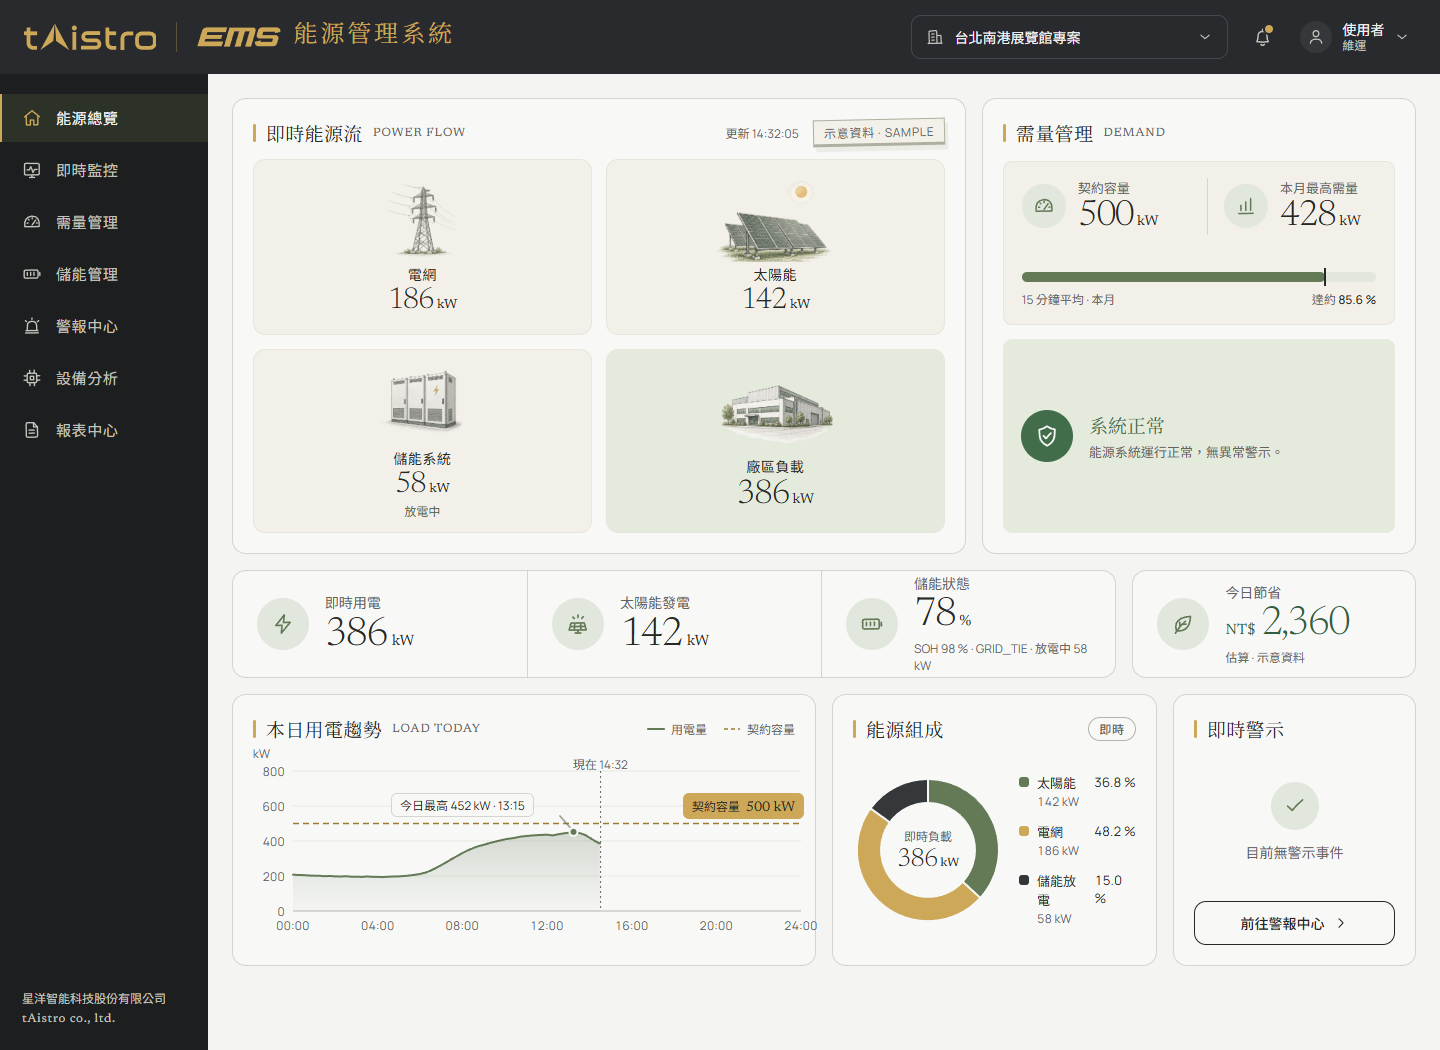
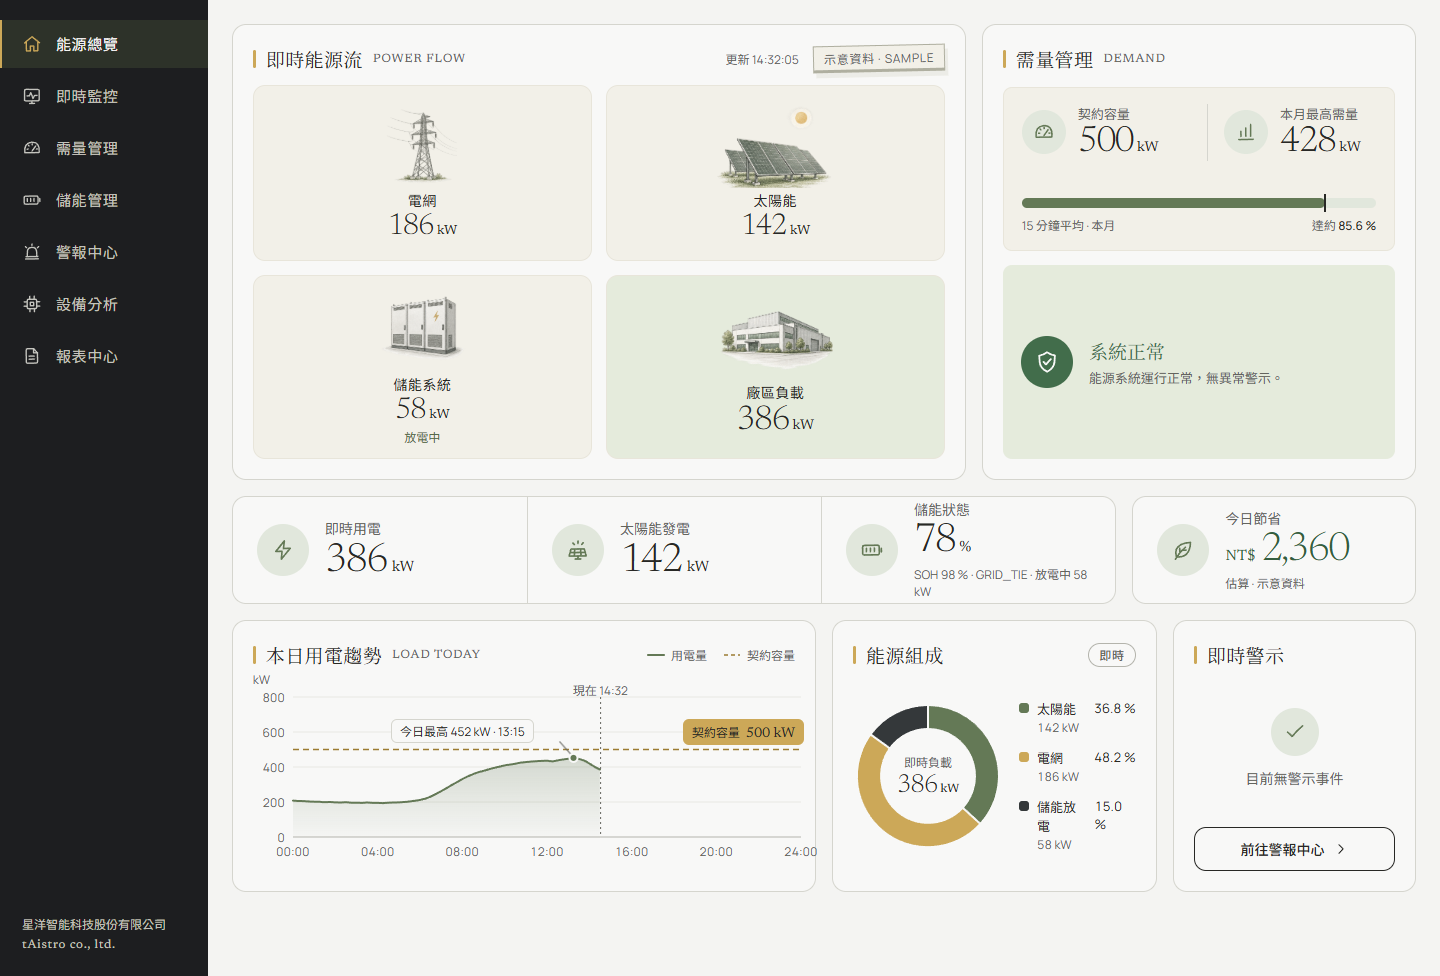
fix: de-identify EMS and PVsim product screenshots

diff --git a/docs/design/live-prototype/locale-pvsim.js b/docs/design/live-prototype/locale-pvsim.js
@@ -1,7 +1,7 @@
 export const zhHant = {
   screens: {
   "label": "從模型，到看得見的設計成果",
-  "note": "示範工作區實際截圖 · 本組畫面為屋頂案例",
+  "note": "實際介面截圖 · 已去識別化 · 屋頂示範案例",
   "group": "PVsim 產品畫面",
   "enlarge": "放大查看原圖",
   "items": [
@@ -68,7 +68,7 @@ export const zhHant = {
 export const en = {
   screens: {
   "label": "From a model to visible design results",
-  "note": "Actual demo workspace captures · Rooftop example in Chinese",
+  "note": "Actual demo captures · De-identified · Rooftop example in Chinese",
   "group": "PVsim product screens",
   "enlarge": "View full-size image",
   "items": [

diff --git a/docs/design/live-prototype/locale-ems.js b/docs/design/live-prototype/locale-ems.js
@@ -2,7 +2,7 @@
 export const zhHant = {
   screens: {
   "label": "來自示範環境的產品畫面",
-  "note": "實際介面截圖 · 畫面數值為示意資料",
+  "note": "實際介面截圖 · 已去識別化 · 示意資料",
   "group": "EMS 產品畫面",
   "enlarge": "放大查看原圖",
   "items": [
@@ -65,7 +65,7 @@ export const zhHant = {
 export const en = {
   screens: {
   "label": "Inside the demo environment",
-  "note": "Actual interface captures · Sample data",
+  "note": "Actual interface captures · De-identified · Sample data",
   "group": "EMS product screens",
   "enlarge": "View full-size image",
   "items": [

diff --git a/docs/design/live-prototype/product-screen-provenance.md b/docs/design/live-prototype/product-screen-provenance.md
@@ -3,17 +3,17 @@
 2026-09-30 擷取使用者指定、架於 DGX 的示範網站。截圖為實際產品介面；不是客戶上線實績或量測驗收。只切換既有畫面與查看既有成果，未修改案件、送算或操作設備。
 
 - EMS：公開示範頁 /ems/boards/Main.dc.html、Demand.dc.html、Storage.dc.html。頁面數值為示意資料，保留原有標示。
-- PVsim：https://synaiq-ai.com/solar/，由使用者提供示範登入。擷取既有屋頂示範案例的模型、遮陰、月發電量比較與串並配置圖，沒有把案例類型當成平台範圍。模型／圖表使用產品區域截圖，排除登入資訊、案件清單及座標欄位；沒有重繪或改造結果。
+- PVsim：https://synaiq-ai.com/solar/，由使用者提供示範登入。擷取既有屋頂示範案例的模型、遮陰、月發電量比較與串並配置圖，沒有把案例類型當成平台範圍。所有圖片皆採功能區域截圖，排除客戶／案場名稱、專案標頭、登入資訊、案件清單及地理座標欄位。遮陰與發電圖重新擷取無案名區域；串接畫面選用無案名的板位與串號索引。沒有重繪、替換或改造計算結果。
 - 圖片內為原始中文介面；英文頁的說明與圖說為英文。
 - 發電圖是模型估算；串並圖是設計候選，保留原介面工程限制。
-- 原始 PNG 與擷取紀錄留在忽略目錄 out/product-screen-capture/。發布圖片為無損 WebP；不儲存帳密或登入狀態。
+- 原始 PNG 與擷取紀錄留在忽略目錄 out/product-screen-anonymous/。發布圖片為無損 WebP；不儲存帳密或登入狀態。
 
 | 檔案 | 尺寸 | SHA-256 |
 |---|---|---|
-| assets/ems-main-demo.webp | 1440 × 1050 | ce0dbb3c5f4fc3ffd3ed03158721a2c0347b3c7ae30a9bd78d8c80e58eb2d379 |
-| assets/ems-demand-demo.webp | 1440 × 1050 | e84e1d2d762c7fc4fc0ae54c4a67bfa6024786e7a53ad621d1e2bbca7d35fb34 |
-| assets/ems-storage-demo.webp | 1440 × 1050 | 00cab1c50ef7a0950c9ce83ae0ac70ffc152a1766de6b654beb525207772a173 |
+| assets/ems-main-demo.webp | 1440 × 976 | b76085b9ac2fbd130d5b7316546eb978bc884886799177e39dd87ca598c97df8 |
+| assets/ems-demand-demo.webp | 1440 × 976 | 3bac35cafe8a335c3c8b54539989e5a14b94d0a6382d62e781a59b28cd71bce9 |
+| assets/ems-storage-demo.webp | 1440 × 976 | dae42108c83da39636b2e6d1a7bca32c9dc712fcc9fdace354f4ddbd66611ec3 |
 | assets/pvsim-model-demo.webp | 986 × 827 | e622e2b0837660a53cd68e12e805c08dfd830f3cd7ef62cdafb70ced11e94f29 |
-| assets/pvsim-shading-demo.webp | 938 × 675 | 5be9a15e647c1d029a9e6133817e8b1e95060a95852c67e03dcbf1eb41609069 |
-| assets/pvsim-generation-demo.webp | 938 × 411 | 88ab83bf33edae76a60ecb8f218a5fce6d8f3355ea0c64fbd4eb5b4e9338b594 |
-| assets/pvsim-wiring-demo.webp | 1600 × 1050 | b01b6a22de0371046e7931c9920f06d6b7cc1b83c10632f55803fa233f8de857 |
+| assets/pvsim-shading-demo.webp | 1600 × 896 | 1afb2c557c4dad83520617d220b4903920b30f484d893ef34ff28ee3ed7b766f |
+| assets/pvsim-generation-demo.webp | 1600 × 574 | 5e515d2caccb8a76a434002a8b722bbea405e14c62649d8a95f1cd654f090386 |
+| assets/pvsim-wiring-demo.webp | 1438 × 945 | 9d239a966f96b782ada410dccfe2d80fc44e8e182bcd5dbc799fcc4f3c0c4094 |
